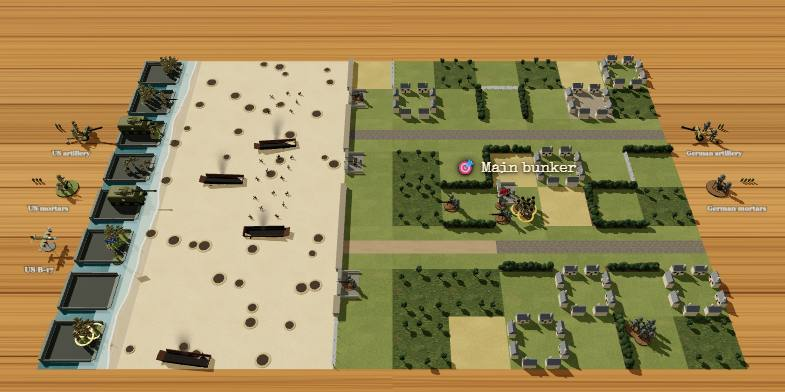
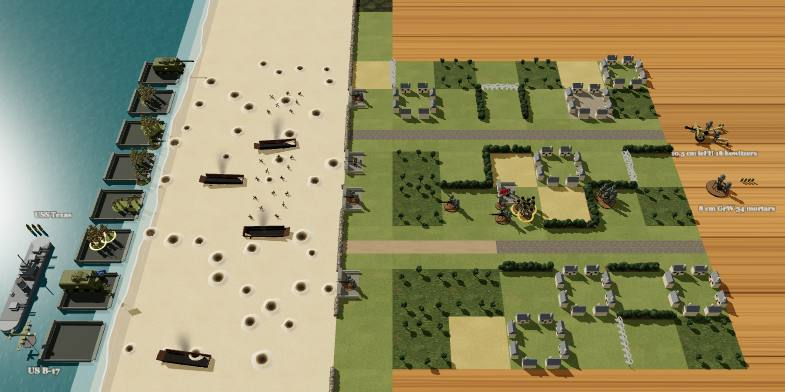
Hedgerow v172: Dunkirk counts sections (12 needed), boats named by type and off the top five rows, warship and bomber at the bottom, no flicker under the boats, a table picture for Dunkirk

diff --git a/index.html b/index.html
@@ -145,7 +145,7 @@
 <aside id="panel">
   <div class="brand">
   <div class="top">
-    <h1>HEDGEROW <span id="ver" style="font-size:11px;color:var(--muted);letter-spacing:0">v171</span> <a id="prompts-link" href="prompts.html" target="_blank" rel="noopener" title="How the game was made, prompt by prompt">Prompts</a></h1>
+    <h1>HEDGEROW <span id="ver" style="font-size:11px;color:var(--muted);letter-spacing:0">v172</span> <a id="prompts-link" href="prompts.html" target="_blank" rel="noopener" title="How the game was made, prompt by prompt">Prompts</a></h1>
     <div class="links"><button id="sound-btn" title="Sound on or off">🔊</button><button id="help-btn">How to play</button><button id="new-btn">New game</button></div>
   </div>
   <div id="clock"></div>
@@ -193,7 +193,7 @@
     <p>Tuesday 11 July 1944, Normandy. Your American rifle company must fight through the bocage, field by field, and take a village three fields in from the German end of the board (Saint-Jean or La Haye: it changes each game), then hold it for the whole of the next round, or destroy every German on the field. Taken at the end of a round, it must stay held after every move of the next: a rifle platoon or the captain of yours in it and no Germans. Lose it at any moment and it must be taken and held all over again. The game is played in rounds; there is no limit for now. The moment one side has no pieces left, the game is over (the round isn't finished); if one mission or bomb takes the last of both sides, it is a draw. You lose at the end of a round if you have no rifle platoon and no captain left, and nothing left that can hurt the German tanks. A German garrison holds the village; more Germans march up from the east.</p>
     <ul>
       <li>🪖 <b>Pieces</b>: your company: three rifle platoons (three sections of three men each, moving together), the captain, machine-gun and bazooka teams, a sniper, and two tanks: a Sherman 75mm and a Sherman 76mm, with the longer gun, better against tanks. 1st Platoon is elite, and so is the Germans' 1. Fallschirmjäger-Zug: an elite piece has a gold band round the edge of each of its bases, its men look the part (and a ★ after its name): 1st Platoon are Rangers in brown, with the orange diamond on their helmets; the Fallschirmjäger wear the paratrooper's camouflage smock and black helmet. The other Germans are in field grey. Elite troops need one less to hit, in shooting and hand to hand. Your bases are green, the Germans' brown. The Germans: Fallschirmjäger platoons, MG 42 and Panzerschreck teams, a PaK 40 gun with its crew of three (it turns to face whatever it fires at), a Panzer IV and a Panther in panzer grey (the Panther's armour needs one more to hit, by shot or shell; every tank's armour shows in its panel and on the red label), and their captain with a red flag, who rallies their shaken pieces. Both captains can be shot and shelled like anyone else (a small target): one wound and he's gone.</li>
-      <li>🗺 <b>The campaign</b>: the same start also asks which battle. They run in order from the Normandy beaches through the bocage and the farms to Paris, each with its date; play any of them, in any order. When a battle ends and you have won it, <b>Next battle</b> starts the next one in the campaign with the same commanders on each side (after Paris, back to the beach); lost or drawn, <b>Try again</b> plays the same battle again. With two humans or two robots, it goes on when the Americans win. Take Paris and the city celebrates. Each has its own ground, and most change the pieces, the guns or where the sides start: River crossing (bridges the only way over), Crossroads town, Open farmland (few hedges, barns and a duck pond), Paris (a new maze of cobbled streets each game), Train station (tracks everywhere, with engines, carriages, goods wagons, signal boxes, signals, water towers and coal heaps in new places each game; the tracks themselves have no effect) and Deep bocage (hedges nearly everywhere). A café, a barn, or anything on the rails takes two or three areas, along one side of its field or in the middle, and blocks the view as a tank does; so do the station's signal boxes, water towers and coal heaps, one area each; a signal takes an area too, but can be seen past (with one in the middle only smaller pieces can stop there; platoons and tanks go past); a fountain or a pond can't be stood on, but can be seen over. Bombers differ too: on some maps only one side has one, on one map neither. The choice says what each one changes. Two <b>bonus battles</b> sit at the top right of the choice, outside the campaign. <b>Dunkirk</b>, 31 May 1940: you are the British (or the Germans against them). Your men don't go to the boats: they hold the sandbagged strongpoints along the front (two more to hit the men in one, one more against shells). From round 2 a lorry a round comes down the coast road from the top, with 1 or 2 sections of men, and drives itself (up to 4 fields a round, no orders or token) to a little ship lying off the beach; the men run out of the back into the boat, and the boats sail at the end of the round. Two or three boats come in each round. 8 lorry-loads away within 12 rounds wins; a German on the coast road or the beach at the end of a round loses, and so does running out of lorries or rounds. The Germans can shoot the lorries: each hit loses a section. The Royal Navy's destroyer fires for the British in place of artillery, with 4 rounds; the British have no mortars, and one run of an RAF Blenheim. The boats come in bow first, pull up alongside the beach, and leave bow first. The count of lorry-loads away is written large on the beach above the board. On the Normandy beach the American guns are the battleship USS Texas, out at sea, with 3 rounds, and no mortars. On both, the beach runs on past the top and bottom of the board. <b>Stalingrad</b> is still to be decided (TBC).</li>
+      <li>🗺 <b>The campaign</b>: the same start also asks which battle. They run in order from the Normandy beaches through the bocage and the farms to Paris, each with its date; play any of them, in any order. When a battle ends and you have won it, <b>Next battle</b> starts the next one in the campaign with the same commanders on each side (after Paris, back to the beach); lost or drawn, <b>Try again</b> plays the same battle again. With two humans or two robots, it goes on when the Americans win. Take Paris and the city celebrates. Each has its own ground, and most change the pieces, the guns or where the sides start: River crossing (bridges the only way over), Crossroads town, Open farmland (few hedges, barns and a duck pond), Paris (a new maze of cobbled streets each game), Train station (tracks everywhere, with engines, carriages, goods wagons, signal boxes, signals, water towers and coal heaps in new places each game; the tracks themselves have no effect) and Deep bocage (hedges nearly everywhere). A café, a barn, or anything on the rails takes two or three areas, along one side of its field or in the middle, and blocks the view as a tank does; so do the station's signal boxes, water towers and coal heaps, one area each; a signal takes an area too, but can be seen past (with one in the middle only smaller pieces can stop there; platoons and tanks go past); a fountain or a pond can't be stood on, but can be seen over. Bombers differ too: on some maps only one side has one, on one map neither. The choice says what each one changes. Two <b>bonus battles</b> sit at the top right of the choice, outside the campaign. <b>Dunkirk</b>, 31 May 1940: you are the British (or the Germans against them). Your men don't go to the boats: they hold the sandbagged strongpoints along the front (two more to hit the men in one, one more against shells). From round 2 a lorry a round comes down the coast road from the top, with 1 or 2 sections of men, and drives itself (up to 4 fields a round, no orders or token) to a little ship lying off the beach; the men run out of the back into the boat, and the boats sail at the end of the round. Two or three boats (tugs and cabin cruisers) come in each round, off the top five fields of the beach; the destroyer and the RAF's bomber lie at the bottom. 12 sections away within 12 rounds wins (a lorry shot up on the way brings fewer); a German on the coast road or the beach at the end of a round loses, and so does running out of lorries or rounds. The Germans can shoot the lorries: each hit loses a section. The Royal Navy's destroyer fires for the British in place of artillery, with 4 rounds; the British have no mortars, and one run of an RAF Blenheim. The boats come in bow first, pull up alongside the beach, and leave bow first. The count of sections away is written large on the beach above the board. On the Normandy beach the American guns are the battleship USS Texas, out at sea, with 3 rounds, and no mortars. On both, the beach runs on past the top and bottom of the board. <b>Stalingrad</b> is still to be decided (TBC).</li>
       <li>🏖 <b>Beach landing</b>: the Americans start in landing craft in the sea and can only go forward. There is no goal to take: they win only by destroying every German, bunkers and all. <b>Bunkers</b> are a U of concrete with an MG team or a PaK 40 inside. They never move and fire only out of the slit in their thick front, to the west, across a 90° arc: 45° either side of straight ahead, measured from where the bunker stands to where the target stands in its field. <b>From in front they need 3 more to hit</b>, and shells and bombs too; <b>from either thin side, 1 more</b>; <b>from the open back (the 90° straight behind it), nothing extra</b>. A bunker never has cover from the sea wall, hedges, houses or trees, and the label on a shot at one says which face. Rifles, machine guns and mortars only shake a bunker; anti-tank weapons, artillery and bombs can knock it out, and a rifle platoon can storm it hand to hand from the side or back, never from the front. A dead bunker stays as a burnt-out shell, blocking the view. <b>Tank traps</b> stop tanks and give no cover. <b>Burnt-out landing craft</b> on the sand block the view; a piece right beside one (in the next area, in its field or the next) has +1 cover, as by a hedge, shown by a green bar along the wreck when you move there (not against shells or bombs). The sea wall is climbed like a hedge bank, or driven through.</li>
       <li>🔄 <b>Human or robot</b>: the game starts by asking who commands each side, and <b>New game</b> asks again. Two humans share the screen and take turns token by token: a piece under fire is asked Stand fast or Take cover by the other player. Two robots play it out while you watch, a draw after 30 rounds. <b>Playing the Germans</b>: As the Germans you win only by destroying every American piece on the table; their mortars, artillery and bomber off the table don't count. You lose if a rifle platoon or the captain of theirs takes the village and holds it for the whole of the next round, with no Germans left in it, or if every German is destroyed. The computer plays the Americans and attacks. Everything else in these rules works the same, the other way round: your pieces fight with German weapons and your mortars drop on one piece, not a whole field.</li>
       <li>📋 <b>The bag</b>: each round a token goes in a blind bag for every piece on the table: green with a gold star for yours, grey with a black cross for the Germans', and one black timer token (a white sand-glass): when the timer is drawn the round ends there and then, whoever has still to move (it is never the first token out). Tokens are drawn one at a time; on yours, pick one piece and give it its move (or Skip turn in its menu); on theirs, a German piece moves. A piece destroyed, or one that loses its move, takes a token out. When the bag is empty the next round starts. The tokens left are shown in the bar at the bottom (the timer between the two sides'); the one drawn flies onto the table above that side's artillery and stays there until its move is over. Your mortars, artillery and bomber each have a token too, while they have rounds or a run left (with none left, they come out of the bag): on one of your tokens, firing them or flying the bomber uses it. Any piece or gun can <b>Skip turn</b> (in its menu): it gives up its move this round and the token is used.</li>
@@ -229,16 +229,16 @@
 </div>
 
 <script src="https://cdnjs.cloudflare.com/ajax/libs/three.js/r128/three.min.js"></script>
-<script src="js/data.js?v=171"></script>
-<script src="js/sim.js?v=171"></script>
-<script src="js/sound.js?v=171"></script>
-<script src="js/models.js?v=171"></script>
-<script src="js/fire.js?v=171"></script>
-<script src="js/chute.js?v=171"></script>
-<script src="js/labels.js?v=171"></script>
-<script src="js/scenery.js?v=171"></script>
-<script src="js/board3d.js?v=171"></script>
-<script src="js/ui.js?v=171"></script>
-<script src="js/main.js?v=171"></script>
+<script src="js/data.js?v=172"></script>
+<script src="js/sim.js?v=172"></script>
+<script src="js/sound.js?v=172"></script>
+<script src="js/models.js?v=172"></script>
+<script src="js/fire.js?v=172"></script>
+<script src="js/chute.js?v=172"></script>
+<script src="js/labels.js?v=172"></script>
+<script src="js/scenery.js?v=172"></script>
+<script src="js/board3d.js?v=172"></script>
+<script src="js/ui.js?v=172"></script>
+<script src="js/main.js?v=172"></script>
 </body>
 </html>

diff --git a/js/sim.js b/js/sim.js
@@ -279,7 +279,7 @@ const Sim = (() => {
     st.evac = map.evacuate ? { saved: 0, boats: [], lorries: 0 } : null;
     if (st.evac) {
       newBoats(st);
-      st.report = [`${map.date}. The ${sideName(st, 'us')} hold the line while the little ships come in. Get ${map.evacuate.need} pieces away within ${map.evacuate.rounds} rounds.`];
+      st.report = [`${map.date}. The ${sideName(st, 'us')} hold the line while the little ships come in. Get ${map.evacuate.need} sections away on the tugs and cabin cruisers within ${map.evacuate.rounds} rounds.`];
       return st;
     }
     st.report = [st.noGoal
@@ -434,7 +434,7 @@ const Sim = (() => {
   // go: they fight (Steve). Lorries bring the men instead: from round trucks.first they come in at the top of the coast
   // road, drive on their own to the field off which a boat lies, and the men run out of the back into the boat (Steve).
   // A lorry is a piece of the British side with no weapons and no orders: the Germans can shoot it, and each hit loses
-  // a section of the men in it. Getting enough lorry-loads away wins for the British
+  // a section of the men in it. Getting enough sections away wins for the British
 
   // What each side is called on this map (the 'us' side is the British at Dunkirk)
   function sideName(st, side) {
@@ -462,15 +462,23 @@ const Sim = (() => {
     }
   }
 
+  // What kind of boat lies off a row of the beach (Steve: call them by their type): a tug or a cabin cruiser, the same
+  // one the table draws there (Models.littleShip with st.seed + y * 3)
+  function boatKind(st, y) {
+    return Math.abs(st.seed + y * 3) % 2 ? 'tug' : 'cabin cruiser';
+  }
+
   // The end of the round: every boat sails with whoever is aboard, and they are safe
   function sailBoats(st, rep) {
     for (const u of st.units) {
       if (!isAboard(st, u)) continue;
       st.fx.push({ kind: 'sail', x: u.x, y: u.y, to: { id: u.id } });
+      const boat = boatKind(st, u.y);
       u.x = null; u.y = null;
       u.saved = true;
-      st.evac.saved++;
-      rep.push(`⛵ ${u.name} gets away on a little ship.`);
+      // (sections are what count, Steve 2026-11-12: a lorry shot up on the way brings fewer)
+      st.evac.saved += u.platoons;
+      rep.push(`⛵ ${u.name}'s ${u.platoons} section${u.platoons > 1 ? 's get' : ' gets'} away on a ${boat}.`);
     }
     st.evac.boats = [];
   }
@@ -479,10 +487,11 @@ const Sim = (() => {
   // could bring
   function stillToSave(st) {
     const E = st.map.evacuate, T = E.trucks;
-    const onTable = st.units.filter(u => u.side === 'us' && u.x !== null && isLorry(u)).length;
+    // The sections in the lorries still on the table, and the most the lorries still to come could bring
+    const onTable = st.units.filter(u => u.side === 'us' && u.x !== null && isLorry(u)).reduce((n, u) => n + u.platoons, 0);
     // (lorries come at the start of each round from first to last; the next round is turn + 1)
     const roundsLeft = Math.max(0, Math.min(T.last, E.rounds) - Math.max(T.first, st.turn + 1) + 1);
-    return onTable + roundsLeft * T.each[1];
+    return onTable + roundsLeft * T.each[1] * T.sections[1];
   }
 
   // Won, lost, or on to the next round. germansLeft: any German still on the table
@@ -490,20 +499,20 @@ const Sim = (() => {
     const E = st.map.evacuate, saved = st.evac.saved, us = sideName(st, 'us');
     if (saved >= E.need) {
       st.won = true;
-      rep.unshift(`🏆 ${saved} lorry-loads have got away on the little ships in ${roundText(st.turn)}! The ${us} are home.`);
+      rep.unshift(`🏆 ${saved} sections have got away on the tugs and cabin cruisers in ${roundText(st.turn)}! The ${us} are home.`);
     } else if (!germansLeft) {
       st.won = true;
       rep.unshift(`🏆 Every German on the field is destroyed in ${roundText(st.turn)}!`);
     } else if (germansOnTheRoad(st)) {
       // (Steve: the British must keep them back: a German on the coast road or the beach cuts the way to the boats)
       st.lost = true;
-      rep.unshift(`💀 The Germans have reached the coast road in ${roundText(st.turn)}. The way to the boats is cut, with ${saved} of the ${E.need} lorry-loads away.`);
+      rep.unshift(`💀 The Germans have reached the coast road in ${roundText(st.turn)}. The way to the boats is cut, with ${saved} of the ${E.need} sections away.`);
     } else if (saved + stillToSave(st) < E.need) {
       st.lost = true;
-      rep.unshift(`💀 Only ${saved} lorry-loads got away, and too few are left to make ${E.need}. The ${us} are trapped.`);
+      rep.unshift(`💀 Only ${saved} sections got away, and too few are left to make ${E.need}. The ${us} are trapped.`);
     } else if (st.turn >= E.rounds) {
       st.lost = true;
-      rep.unshift(`⌛ After ${E.rounds} rounds only ${saved} of the ${E.need} lorry-loads needed got away. The Germans have the beach.`);
+      rep.unshift(`⌛ After ${E.rounds} rounds only ${saved} of the ${E.need} sections needed got away. The Germans have the beach.`);
     }
   }
 
@@ -3396,7 +3405,7 @@ const Sim = (() => {
 
   return {
     firesOnTheMove, canAmbush, actAmbush, bestMoveShoot, bomberHeading, bomberAims, bomberLine, bombNeed, bombWhy, bestBomberRun,
-    isBunker, isCar, hurtsCars, trainCars, lineSideOf, moveTrains, inFrontOf, bunkerFace, shotOnTheMove, wrecksBeside, isRoad, featuresAt, walkDistance, fireSound, wreckAt, remove, computerSide, isRobot, piecesToAsk, takeCover, enemyOf, gunStats, bomberName, edgeKey, atCloseRange, closeCells, hailMaryCells,
+    isBunker, isCar, hurtsCars, trainCars, lineSideOf, moveTrains, inFrontOf, bunkerFace, shotOnTheMove, wrecksBeside, isRoad, featuresAt, walkDistance, fireSound, wreckAt, remove, computerSide, isRobot, piecesToAsk, takeCover, enemyOf, gunStats, bomberName, boatKind, edgeKey, atCloseRange, closeCells, hailMaryCells,
     newGame, roll, inside, tileType, hedge, at, unitById, isTank, isTeam, adjacent, sees, targets, chargeSpots,
     rallyTargets, canAct, canReact, firepower, canCallFire, takesGoal, cannotWin, artilleryTarget, mortarTarget, holdsObjective, roundText, roomFor,
     computerStep, answer, finishRound, startRound, drawToken, endComputerToken, activationOver, passToken, humanCanMove, endRound, canFire, actSkip, actSkipShot, skipSupport,

diff --git a/js/board3d.js b/js/board3d.js
@@ -105,9 +105,15 @@ const Board = (() => {
   // Dunkirk and the Normandy beach (Steve): the artillery is a warship lying broadside to the shore (no mortars on
   // these maps, and no headland, Steve 2026-11-12). The ship's name sits on the water off its bow, not on the ship, so it can
   // be read, and its shells stand in one line between the name and the bow, so the shots left can be counted (Steve)
-  // nameX, nameZ: where its name goes; pileRow: the rounds in a single line, not rows of three
+  // nameX, nameZ: where its name goes; pileRow: the rounds in a single line, not rows of three.
+  // The warship and the bomber at the bottom of the sea, so the little ships have the top of the beach (Steve, 2026-11-12;
+  // Dunkirk keeps its boats off the rows behind them, noBoats in data.js)
   const DUNKIRK_GUNS = {
-    us: Object.assign({}, USUAL_GUNS.us, { artillery: { x: -1.35, z: 2.4, pileX: -1.75, pileZ: 1.2, pileRow: true, nameX: -1.35, nameZ: 0.86 } }),
+    us: Object.assign({}, USUAL_GUNS.us, {
+      // (in towards the shore: the bottom of the screen shows less of the sea)
+      artillery: { x: -0.75, z: 6.3, pileX: -1.1, pileZ: 5.1, pileRow: true, nameX: -0.75, nameZ: 4.76 },
+      bomber: { x: -0.3, z: 7.5, nameX: 0.15, nameZ: 8.05 },
+    }),
     de: USUAL_GUNS.de,
   };
   let GUNS = USUAL_GUNS;
@@ -208,9 +214,8 @@ const Board = (() => {
   // Where a side's drawn token lands on the table: just above its artillery, a little further out (the dice sit beside it)
   function coinSpot(side) {
     const gun = GUNS[side].artillery;
-    // (Dunkirk and the Normandy beach: above the warship, clear of its bow, Steve)
-    // (moved up a little to clear the ship's name and shells off its bow)
-    if (side === 'us' && GUNS === DUNKIRK_GUNS) return { x: gun.x, z: gun.z - 2.3 };
+    // (Dunkirk and the Normandy beach: out at sea at the top, clear of the boats, the warship being at the bottom, Steve)
+    if (side === 'us' && GUNS === DUNKIRK_GUNS) return { x: -2.1, z: -0.3 };
     return { x: gun.x + (side === 'us' ? -0.1 : 0.1), z: gun.z - 1.15 };
   }
   // Which face a side's token has: the British their Union Jack (Steve)
@@ -332,7 +337,7 @@ const Board = (() => {
   let evacSign = null;               // { sprite, text }
   function updateEvacSign(st) {
     if (!st.map.evacuate || !st.evac) return;
-    const text = `${st.evac.saved} of ${st.map.evacuate.need} lorry-loads evacuated`;
+    const text = `${st.evac.saved} of ${st.map.evacuate.need} sections evacuated`;
     // (the same words, and still on this table: nothing to do)
     if (evacSign && evacSign.text === text && evacSign.sprite.parent === built) return;
     if (evacSign && evacSign.sprite.parent) evacSign.sprite.parent.remove(evacSign.sprite);
@@ -575,7 +580,8 @@ const Board = (() => {
     if (offBoard) {
       for (let y = 0; y < ROWS; y++) {
         const m = Models.mergeParts(Models.littleShip(st.seed + y * 3));
-        group.add(at(m, BOATS.out, 0.006, y + 0.5));
+        // (sitting a little down in the water: level with the sea's surface, its bottom flickered through, Steve)
+        group.add(at(m, BOATS.out, BOATS.sit, y + 0.5));
         m.visible = false;
         craft.push({ mesh: m, phase: R() * 6.28, x: 0, y, boat: true, icons: [], load: 0 });
       }
@@ -597,7 +603,7 @@ const Board = (() => {
   // Dunkirk's boats (Steve: we see them move in and out): where one lies off the beach, and where it waits out at sea
   // inwards, alongside, outwards: the turn of a boat heading for the shore, lying along it, heading out to sea;
   // pullUp: how far out it starts to turn alongside; turn: how fast it turns (radians a second)
-  const BOATS = { in: -0.45, out: -4.6, speed: 0.9, inwards: -Math.PI / 2, alongside: 0, outwards: Math.PI / 2, pullUp: 0.6, turn: 1.8 };
+  const BOATS = { in: -0.45, out: -4.6, speed: 0.9, inwards: -Math.PI / 2, alongside: 0, outwards: Math.PI / 2, pullUp: 0.6, turn: 1.8, sit: -0.004 };
   // The icon over a boat for each section of men aboard (Steve): a khaki disc with a man in a tin hat, made once
   let manIconTex = null;
   function manIcon() {

diff --git a/tools/test.js b/tools/test.js
@@ -47,7 +47,9 @@ check('the bonus battles are Dunkirk then Stalingrad, outside the campaign, each
   assert(BONUS.find(b => b.id === 'stalingrad').stamp === 'TBC', 'Stalingrad is not stamped TBC');
   for (const b of BONUS) {
     assert(!CAMPAIGN.includes(b.id), `${b.name} is in the campaign`);
-    assert(fs.existsSync(path.join(__dirname, '..', 'assets', 'maps', b.id + '.svg')), `${b.name} has no picture`);
+    // (a table picture once its map is built, Steve; a drawing until then)
+    const picture = MAPS.some(m => m.id === b.id) ? b.id + '.jpg' : b.id + '.svg';
+    assert(fs.existsSync(path.join(__dirname, '..', 'assets', 'maps', picture)), `${b.name} has no picture ${picture}`);
     // One with no map can't be started: it must carry a stamp, which stops it being picked
     if (!MAPS.some(m => m.id === b.id)) assert(b.stamp, `${b.name} has no map but no stamp either`);
   }
@@ -4319,14 +4321,18 @@ check('one more American artillery round in Hedge country, Deep bocage, the Trai
   Sim.newGame(1);
 });
 
-check('no American or British mortars on either beach (Steve), and no rows of the shore kept clear of boats at Dunkirk', () => {
+check('no American or British mortars on either beach (Steve), and Dunkirk boats only off the top five rows, clear of the destroyer and the bomber', () => {
   for (const id of ['beach', 'dunkirk']) {
     const g = Sim.newGame(1, 'us', id);
     assert(g.ammo.us.mortars === 0, `${id}: ${g.ammo.us.mortars} mortar rounds`);
     // (the Germans keep theirs)
     assert(g.ammo.de.mortars > 0, `${id}: the Germans lost their mortars`);
   }
-  assert(!(MAPS.find(m => m.id === 'dunkirk').evacuate.noBoats || []).length, 'Dunkirk still keeps rows clear of boats');
+  assert(MAPS.find(m => m.id === 'dunkirk').evacuate.noBoats.join() === '5,6,7', 'Dunkirk keeps the wrong rows clear of boats');
+  for (let seed = 1; seed <= 30; seed++) {
+    const g = Sim.newGame(seed, 'us', 'dunkirk');
+    assert(g.evac.boats.every(b => b.y <= 4), `seed ${seed}: a boat behind the destroyer`);
+  }
   Sim.newGame(1);
 });
 
@@ -4348,6 +4354,15 @@ check('less than one die is always one die (Steve: everyone who shoots rolls); n
     const n = Sim.wholeDice(st, 1.5);
     assert(n === 1 || n === 2, `one and a half dice rolled ${n}`);
   }
+  Sim.newGame(1);
+});
+
+check('Dunkirk boats are named by their type, a tug or a cabin cruiser, as the table draws them (Steve)', () => {
+  const st = Sim.newGame(3, 'us', 'dunkirk');
+  const kinds = [0, 1, 2, 3, 4].map(y => Sim.boatKind(st, y));
+  assert(kinds.every(k => k === 'tug' || k === 'cabin cruiser') && new Set(kinds).size === 2, kinds.join());
+  // (the same rule as Models.littleShip: odd is a tug)
+  assert(Sim.boatKind(st, 0) === (Math.abs(st.seed) % 2 ? 'tug' : 'cabin cruiser'), 'not the boat on the table');
   Sim.newGame(1);
 });
 
@@ -4483,17 +4498,18 @@ check('Dunkirk: a lorry drives to the field off which a boat lies; the men go ab
   Sim.newGame(1);
 });
 
-check('Dunkirk: the boats sail at the end of the round with whoever is aboard; enough away wins, too few left loses', () => {
+check('Dunkirk: the boats sail at the end of the round with whoever is aboard; its sections count (Steve); enough away wins, too few left loses', () => {
   const st = dunkirkWith(FRONT, [3]);
   const l = lorryAt(st, 0, 3);
   l.aboard = true;
   Sim.finishRound(st);
-  assert(st.evac.saved === 1 && l.saved && l.x === null, `saved ${st.evac.saved}`);
+  // (a lorry with two sections: two away)
+  assert(st.evac.saved === 2 && l.saved && l.x === null, `saved ${st.evac.saved}`);
   assert(!st.won && !st.lost, 'over too soon');
   assert(st.evac.boats.length >= 2, 'no new boats for the next round');
   // Enough away: the British win
   const win = dunkirkWith(FRONT, [3]);
-  lorryAt(win, 0, 3).aboard = true;
+  lorryAt(win, 0, 3, 1).aboard = true;
   win.evac.saved = DUNKIRK.need - 1;
   Sim.finishRound(win);
   assert(win.won && !win.lost, 'getting enough away did not win');

diff --git a/js/data.js b/js/data.js
@@ -225,7 +225,7 @@ const MAPS = [
     // take their men off the beach. The 'us' side is the British here (names), the Germans attack from the east. The
     // village is only where the Germans make for: the beach; nobody has to take or hold it
     id: 'dunkirk', bonus: true, date: '31 May 1940', name: 'Dunkirk',
-    note: 'The British hold the Germans back while little ships take them off the beach. Lorries come down the coast road from the top and drive to the little ships lying off the beach, and the men run out of the back into the boats: one a round from round 2; get 8 lorry-loads away within 12 rounds. If a German reaches the coast road, the way to the boats is cut and you lose. Your men do not go: they hold the strongpoints along the front and keep the Germans off the road and the beach. 2 or 3 boats come in each round and sail at its end. A Matilda II, Universal Carriers, a Vickers and a Boys rifle against Panzer Is, IIs, a III and an armoured car. Destroyers offshore fire for the British.',
+    note: 'The British hold the Germans back while little ships take them off the beach. Lorries come down the coast road from the top and drive to the little ships lying off the beach, and the men run out of the back into the boats: one a round from round 2, each with 1 or 2 sections; get 12 sections away within 12 rounds. If a German reaches the coast road, the way to the boats is cut and you lose. Your men do not go: they hold the strongpoints along the front and keep the Germans off the road and the beach. 2 or 3 boats come in each round and sail at its end. A Matilda II, Universal Carriers, a Vickers and a Boys rifle against Panzer Is, IIs, a III and an armoured car. Destroyers offshore fire for the British.',
     noGoal: true,
     names: { us: 'British', de: 'Germans' },
     // (the sea is off the board, out to the table's edge, Steve: the boats lie off the beach)
@@ -253,11 +253,13 @@ const MAPS = [
     gap: 0.7, wire: 0.15,
     // The British start along the front, from this column; both sides take this share of the width
     from: { us: 4 }, deploy: 0.25,
-    // need: lorry-loads to get away; rounds: to do it in; boats: how many come each round, from to; trucks: the lorries,
+    // need: sections of men to get away (Steve 2026-11-12: sections, not lorry-loads; 12, as 8 lorry-loads of 1 or 2
+    // came to about 12, and two robots win about 6 games in 10); rounds: to do it in; boats: how many come each round, from to; trucks: the lorries,
     // in at the top of the coast road (this column), from round first to last, how many a round, sections of men in each,
     // and how many fields each drives a round
-    // (noBoats: rows of the water's edge where no boat comes; none since the headland went, Steve 2026-11-12)
-    evacuate: { need: 8, rounds: 12, boats: [2, 3], trucks: { road: 3, first: 2, last: 12, each: [1, 1], sections: [1, 2], moves: 4 } },
+    // noBoats: rows of the water's edge where no boat comes: the bottom three, behind the destroyer and the bomber (Steve
+    // 2026-11-12: the little ships use the top of the beach)
+    evacuate: { need: 12, rounds: 12, boats: [2, 3], noBoats: [5, 6, 7], trucks: { road: 3, first: 2, last: 12, each: [1, 1], sections: [1, 2], moves: 4 } },
     // The destroyers stand in for the British artillery (Steve); the RAF's bomber in 1940 a Bristol Blenheim (Steve asked
     // for a Lancaster: it only came in 1942), one run; no German bomber
     guns: { us: { artillery: 'Royal Navy destroyers', bomber: 'Blenheim' } },

diff --git a/js/ui.js b/js/ui.js
@@ -302,7 +302,7 @@ const UI = (() => {
 
   // Why a piece takes no orders (Dunkirk, Steve): aboard a boat, or a lorry driving itself to one. '' otherwise
   function ownWay(u) {
-    if (Sim.isAboard(st, u)) return 'Aboard a little ship: it sails at the end of the round';
+    if (Sim.isAboard(st, u)) return `Aboard a ${Sim.boatKind(st, u.y)}: it sails at the end of the round`;
     if (u.auto) return 'A lorry-load of men for the boats: it drives itself to a boat at the start of each round';
     return '';
   }
@@ -657,9 +657,9 @@ const UI = (() => {
   function goalEvacuate() {
     const E = st.map.evacuate;
     const count = `${st.evac.saved} of ${E.need} away so far.`;
-    if (st.mode === 'none') return `🎯 Two robots: the British must get ${E.need} lorry-loads away on the little ships within ${E.rounds} rounds, the Germans stop them. ${count}`;
-    if (st.human === 'de') return `🎯 Stop the British getting ${E.need} lorry-loads away within ${E.rounds} rounds: shoot the lorries, or reach the coast road. ${count}`;
-    return `🎯 Hold the Germans off the coast road while the lorries take the men to the boats: ${E.need} lorry-loads away within ${E.rounds} rounds wins; a German on the road loses. ${count}`;
+    if (st.mode === 'none') return `🎯 Two robots: the British must get ${E.need} sections away on the little ships within ${E.rounds} rounds, the Germans stop them. ${count}`;
+    if (st.human === 'de') return `🎯 Stop the British getting ${E.need} sections away within ${E.rounds} rounds: shoot the lorries, or reach the coast road. ${count}`;
+    return `🎯 Hold the Germans off the coast road while the lorries take the men to the boats: ${E.need} sections away within ${E.rounds} rounds wins; a German on the road loses. ${count}`;
   }
 
   function update() {

diff --git a/tools/map-pictures.js b/tools/map-pictures.js
@@ -1,8 +1,9 @@
-// Makes the picture of each battle for the opening dialog, in assets/maps: node tools/map-pictures.js
+// Makes the picture of each battle for the opening dialog, in assets/maps: node tools/map-pictures.js [map ids, or all]
 // Needs the game served at http://localhost:8768/ (python -m http.server 8768). A visible browser, one seed for each map
 const path = require('path');
 const { chromium } = require(path.join(__dirname, '..', '..', 'harrier-carrier-playwright-tests', 'node_modules', 'playwright'));
-const SEEDS = { beach: 4, deep: 3, hedges: 5, farmland: 5, river: 3, town: 7, station: 6, paris: 8 };
+const SEEDS = { beach: 4, deep: 3, hedges: 5, farmland: 5, river: 3, town: 7, station: 6, paris: 8, dunkirk: 7 };
+const ONLY = process.argv.slice(2);
 (async () => {
   const browser = await chromium.launch({ headless: false, slowMo: 25 });
   const page = await browser.newPage({ viewport: { width: 800, height: 560 } });
@@ -10,7 +11,7 @@ const SEEDS = { beach: 4, deep: 3, hedges: 5, farmland: 5, river: 3, town: 7, st
   await page.waitForTimeout(800);
   await page.click('#start-game');
   await page.waitForTimeout(400);
-  for (const id of Object.keys(SEEDS)) {
+  for (const id of Object.keys(SEEDS).filter(k => !ONLY.length || ONLY.includes(k))) {
     await page.evaluate(([seed, map]) => Game.restart(seed, 'none', map), [SEEDS[id], id]);
     // Pieces and scenery down, before the first tokens fly
     await page.waitForTimeout(420);

diff --git a/js/main.js b/js/main.js
@@ -647,7 +647,10 @@ window.Game = (() => {
   });
   // The bonus battles, top right. One not ready yet says what it is when the mouse is over it, as it can't be lit
   for (const bonus of BONUS) {
-    const card = mapCard(bonus.id, bonus.name, bonus.date, `assets/maps/${bonus.id}.svg`, '#bonus-choice', bonus.stamp);
+    // (a bonus battle with its map built has a picture of its table, as the others do, Steve; a drawing until then)
+    const hasMap = MAPS.some(m => m.id === bonus.id);
+    const picture = hasMap ? `assets/maps/${bonus.id}.jpg` : `assets/maps/${bonus.id}.svg`;
+    const card = mapCard(bonus.id, bonus.name, bonus.date, picture, '#bonus-choice', bonus.stamp);
     if (bonus.note) card.title = bonus.note;
   }
 

diff --git a/PROMPTS.md b/PROMPTS.md
@@ -1752,6 +1752,15 @@ How the game was made: each prompt, what was built, and the assumptions made.
 - **Dice**: less than one die (half a die, say) is now always one die, so every shot rolls. This means a Sherman 75mm's gun at men (half a die) always rolls one die that kills on a hit
 - **Lorries**: a lorry left on the beach is not drawn while another piece stands in its field, and only the last one left in each field is drawn (they were overlapping the next lorry in)
 
+## 303. Dunkirk counts sections; the boats by type, the top of the beach; the warship at the bottom; the table picture (v172)
+
+- Steve: it's sections we need to count, does this change the maths? adjust how many we need to get away; boats coming in near the top sail through the destroyer, fix it; the little boats can be called by some boat type; they have a glitch from the sea below, fix it; bring the plane and destroyer down to the bottom so the little boats can use the top half of the beach; change the Dunkirk picture so it is a screenshot like all the other levels
+- **Sections count**: each section that sails counts (a lorry brings 1 or 2, fewer if shot up on the way). The maths: 11 lorries at 1.5 sections each is about 16.5; 8 lorry-loads came to about 12 sections, so **12 sections** are now needed in 12 rounds. Robots against robots (40 games): need 11 wins 25, 12 wins 24 (before the boats moved), 27 of 40 after it, about the same as before; the score on the beach reads "0 of 12 sections evacuated"
+- **Boats**: named by type in the messages, "gets away on a tug" or "on a cabin cruiser", and "Aboard a tug" on the piece; they sit a little lower in the water, so the sea no longer flickers through their bottoms
+- **The warship and bomber at the bottom** (both beaches): the destroyer (USS Texas on the Normandy beach) lies off the bottom three rows, its name and shells off its bow, with the bomber below it, both moved in towards the shore so they stay on the screen. At Dunkirk the boats now only come in off the top five rows (noBoats 5, 6, 7), so none sails through them. The British token lands out at sea at the top left, clear of the boats
+- **Picture**: Dunkirk's card on New game is now a picture of its table, as the others are (tools/map-pictures.js can now make just the ones named); the Normandy beach's picture made again without its mortars and headland
+- Not done (no balance runs asked beyond the quick robot check above)
+
 ## Sessions
 
 | # | Date | Length | What we did |
